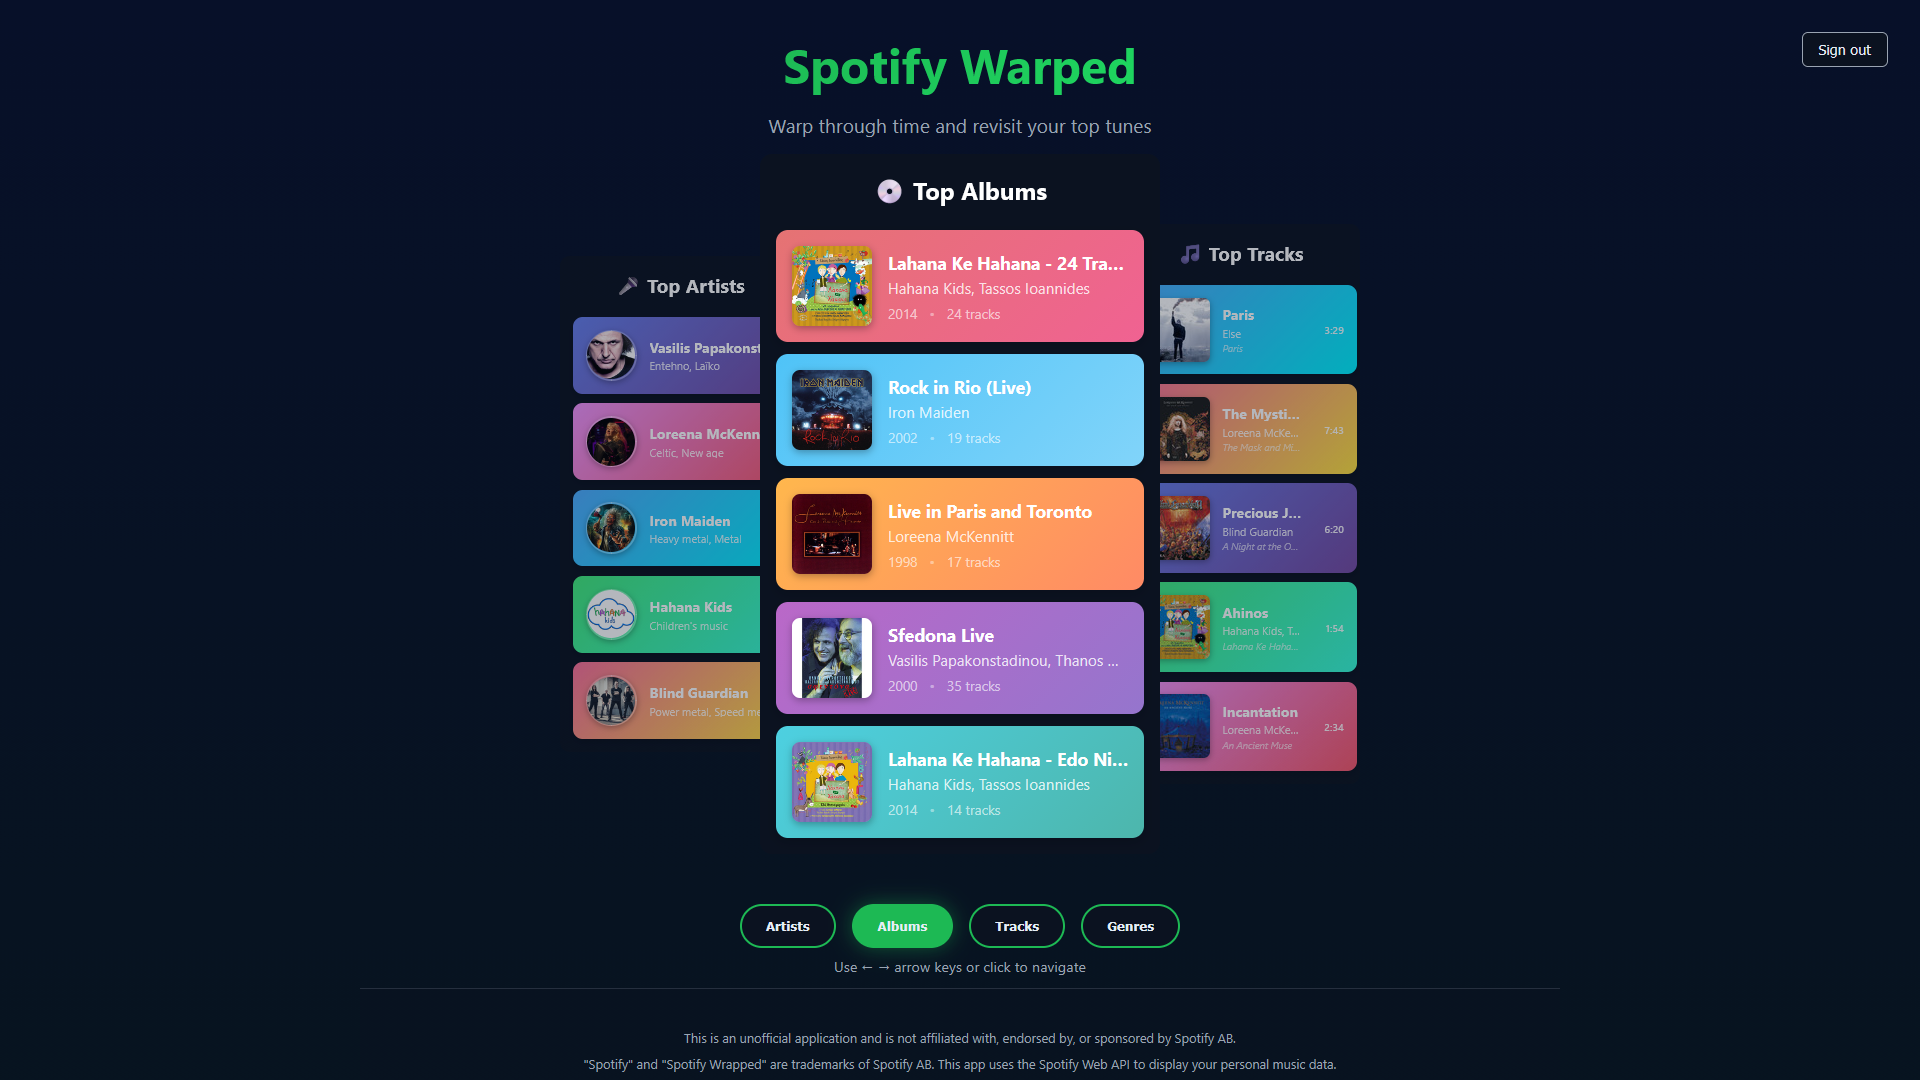
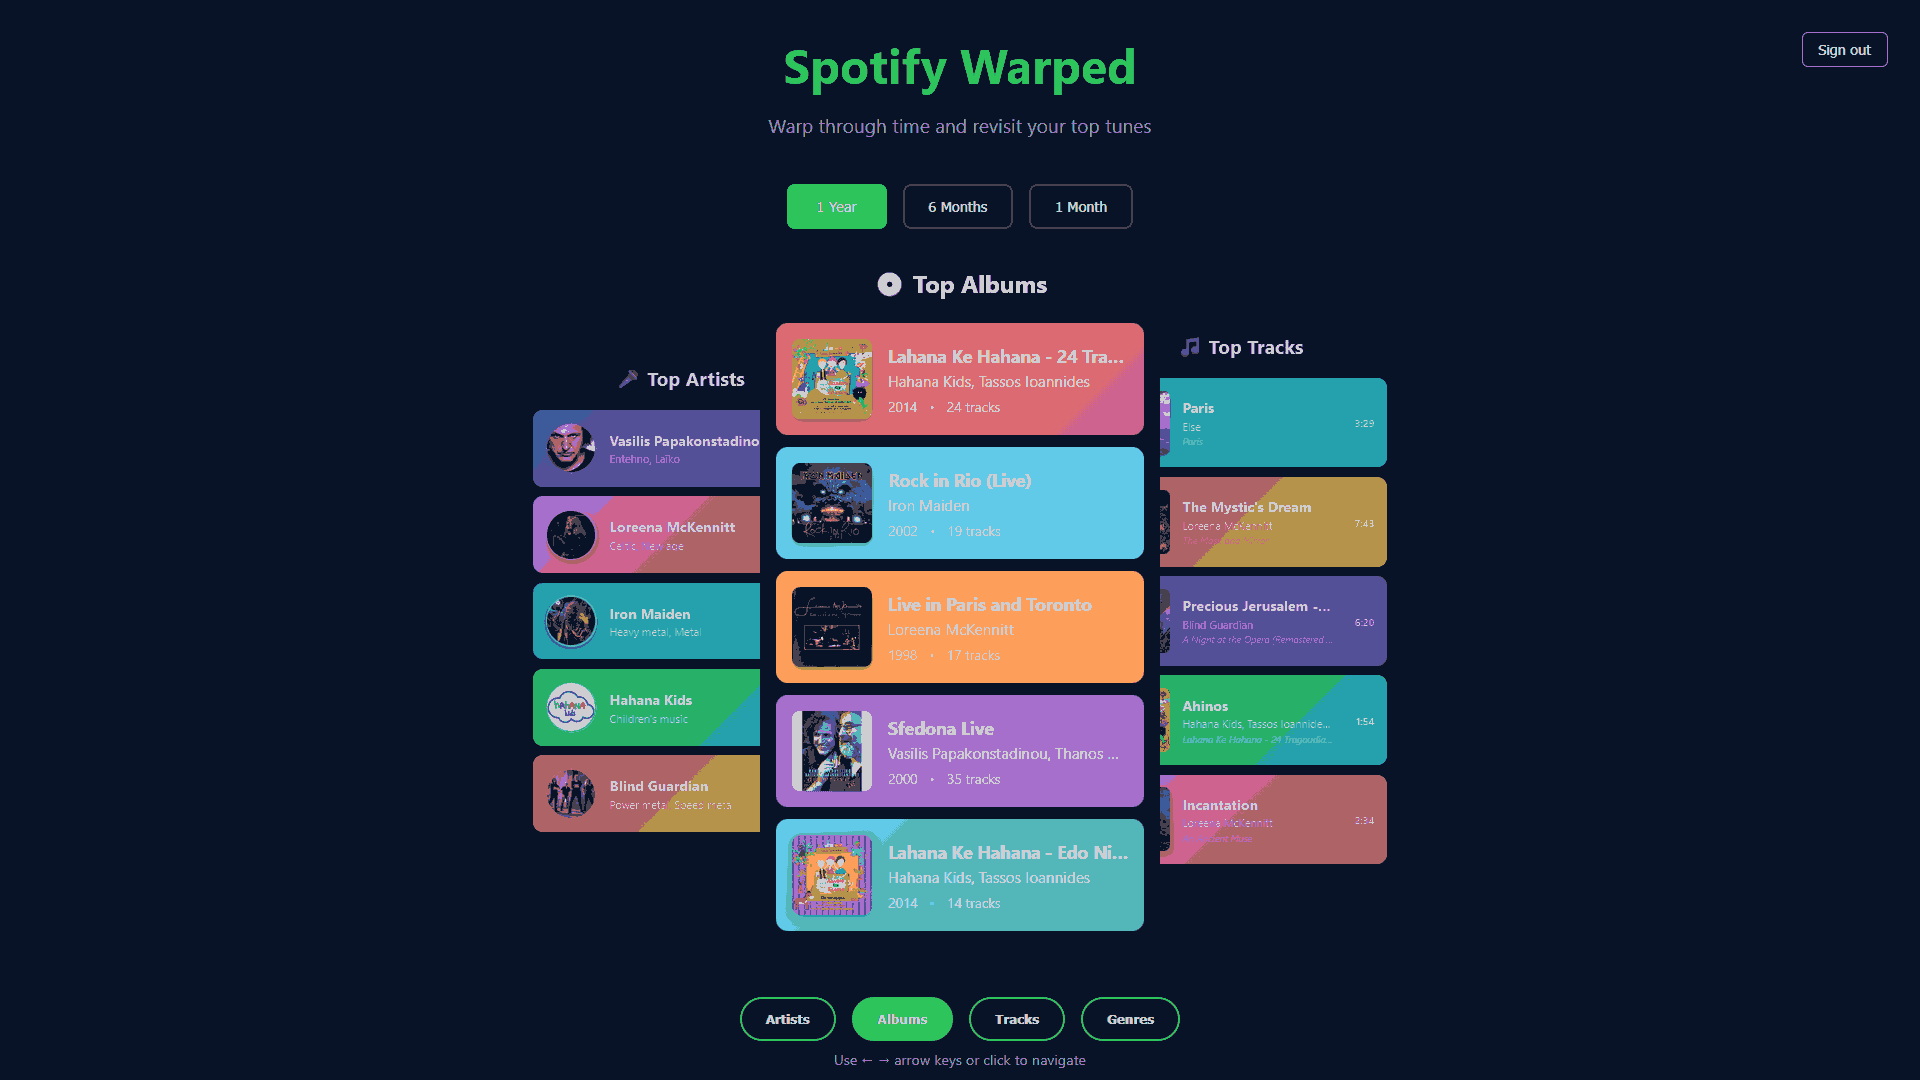
Update README

Changed region(s): [[0.25, 0.1528, 0.75, 1.0], [0.4062, 0.0917, 0.5938, 0.1222], [0.9375, 0.0306, 0.9688, 0.0611]]

diff --git a/src/App.tsx b/src/App.tsx
@@ -52,7 +52,9 @@ export default function App() {
             <span className="separator">•</span>
             <a href="https://developer.spotify.com/documentation/web-api" target="_blank" rel="noopener noreferrer">Spotify Web API</a>
             <span className="separator">•</span>
-            <a href="https://github.com/felagund1789/spotify-warped" target="_blank" rel="noopener noreferrer">Spotify Warped on GitHub</a>
+              <a href="https://github.com/felagund1789/spotify-warped" target="_blank" rel="noopener noreferrer">
+                Spotify Warped on <img src="/github-icon.svg" alt="GitHub" className="github-icon" />
+              </a>
             </p>
         </div>
       </footer>

diff --git a/src/styles.css b/src/styles.css
@@ -237,4 +237,8 @@ button {
     flex: 1;
     max-width: 120px;
   }
+
+  .separator {
+    margin: 0 0.5rem;
+  }
 }

diff --git a/README.md b/README.md
@@ -2,6 +2,7 @@
 
 [![React](https://img.shields.io/badge/React-20232A?style=for-the-badge&logo=react&logoColor=61DAFB)](https://reactjs.org/)
 [![TypeScript](https://img.shields.io/badge/TypeScript-007ACC?style=for-the-badge&logo=typescript&logoColor=white)](https://www.typescriptlang.org/)
+[![React Query](https://img.shields.io/badge/React%20Query-FF4154?style=for-the-badge&logo=react-query&logoColor=white)](https://tanstack.com/query/latest)
 [![HTML5](https://img.shields.io/badge/HTML5-E34F26?style=for-the-badge&logo=html5&logoColor=white)](https://developer.mozilla.org/en-US/docs/Web/HTML)
 [![CSS3](https://img.shields.io/badge/CSS3-1572B6?style=for-the-badge&logo=css3&logoColor=white)](https://developer.mozilla.org/en-US/docs/Web/CSS)
 
@@ -19,14 +20,22 @@ A beautiful, interactive React + TypeScript application that creates your person
 
 ### 🎠 **Interactive Carousel Navigation**
 - **3D Carousel Effect**: Navigate through different data views with smooth transitions
-- **Keyboard Support**: Use arrow keys (← →) for seamless navigation
-- **Click Navigation**: Click on side items or navigation buttons to switch views
-- **Visual Feedback**: Active states and hover effects for enhanced user experience
+- **Multi-Input Support**: Keyboard, mouse, and touch navigation for all devices
+  - **Keyboard Support**: Use arrow keys (← →) for seamless navigation
+  - **Click Navigation**: Click on side items or navigation buttons to switch views
+  - **Swipe Gestures**: Native mobile swipe support for touch devices
+- **Visual Feedback**: Active states, hover effects, and drag cursors for enhanced user experience
 
 ### 🌊 **Immersive Loading Experience**
 - **Warp Tunnel Effect**: Dynamic expanding circles create a "warping through time" animation
 - **Progressive Loading**: Animated text and dots provide engaging feedback
 - **Smart Caching**: Data persistence with 24-hour localStorage caching for faster subsequent loads
+
+### 📊 **Advanced Data Management**
+- **React Query Integration**: Powerful data fetching with automatic caching and background updates
+- **Time Range Selection**: View your top music from different periods (1 year, 6 months, 1 month)
+- **Optimistic Updates**: Smooth UI transitions with intelligent cache management
+- **Background Sync**: Automatic data refresh and stale-while-revalidate patterns
 
 ### 🎯 **User Experience Excellence**
 - **Responsive Design**: Optimized for desktop and mobile devices
@@ -40,8 +49,10 @@ A beautiful, interactive React + TypeScript application that creates your person
 - **User Profile Integration**: Real user data with avatar dropdown menu
 
 ### ⚡ **Performance Optimizations**
-- **Component Architecture**: Modular, reusable components (Carousel, WarpLoading, etc.)
-- **Efficient Caching**: Smart data persistence reduces API calls and loading times
+- **Component Architecture**: Modular, reusable components with custom hooks (Carousel, WarpLoading, useSwipe)
+- **React Query Caching**: Intelligent data fetching with stale-while-revalidate and background updates
+- **Efficient State Management**: Query-based state with automatic cache invalidation
+- **Touch Optimization**: Hardware-accelerated swipe gestures for smooth mobile experience
 - **CSS Modules**: Organized styling with component-specific CSS files
 - **Fast Development**: Built with Vite for lightning-fast development and builds
 
@@ -98,8 +109,9 @@ A beautiful, interactive React + TypeScript application that creates your person
 
 ### Navigation
 - **Keyboard**: Use `←` and `→` arrow keys to navigate between views
-- **Mouse**: Click on navigation buttons or side carousel items
-- **Touch**: Tap navigation buttons on mobile devices
+- **Mouse**: Click on navigation buttons or side carousel items, or drag to swipe
+- **Touch**: Native swipe gestures (left/right) for intuitive mobile navigation
+- **Multi-Platform**: Consistent experience across desktop, tablet, and mobile devices
 
 ### Data Views
 1. **Genres**: Colorful cards showing your top music genres
@@ -118,29 +130,38 @@ A beautiful, interactive React + TypeScript application that creates your person
 ```
 src/
 ├── api/
-│   └── spotify.ts            # Spotify API integration
+│   ├── spotify.ts            # React Query hooks for Spotify API
+│   └── mockSpotify.ts        # Mock implementation for development
 ├── components/
-│   ├── Carousel.tsx          # Main carousel navigation
+│   ├── Carousel.tsx          # Main carousel with swipe navigation
 │   ├── WarpLoading.tsx       # Loading animation
+│   ├── ErrorMessage.tsx      # Custom error handling component
 │   ├── GenreList.tsx         # Genre display component
 │   ├── ArtistList.tsx        # Artist display component
 │   ├── AlbumList.tsx         # Album display component
 │   ├── TrackList.tsx         # Track display component
-│   └── TopLists.tsx          # Main data container
+│   └── TopLists.tsx          # Main data container with time ranges
+├── hooks/
+│   ├── index.ts              # Hook exports
+│   └── useSwipe.ts           # Custom swipe gesture hook
 └── styles/                   # Component-specific CSS files
 ```
 
 ### Key Technologies
 - **React 18**: Latest React with hooks and functional components
 - **TypeScript**: Full type safety and enhanced developer experience
+- **@tanstack/react-query**: Powerful data fetching and caching library
+- **Custom Hooks**: Reusable logic with `useSwipe` for gesture handling
 - **Vite**: Fast development server and optimized builds
-- **CSS3**: Modern styling with grid, flexbox, and animations
+- **CSS3**: Modern styling with grid, flexbox, and touch-optimized animations
 - **Spotify Web API**: Official Spotify integration with OAuth2 PKCE
 
 ### Performance Features
-- **Smart Caching**: 24-hour localStorage cache for reduced API calls
-- **Component Extraction**: Reusable, modular architecture
-- **Efficient Rendering**: Optimized re-renders and state management
+- **React Query Caching**: Intelligent query caching with stale-while-revalidate patterns
+- **Background Updates**: Automatic data refresh and cache synchronization
+- **Custom Hook Architecture**: Reusable logic with `useSwipe` for gesture handling
+- **Optimized Touch Events**: Hardware-accelerated swipe gestures for 60fps mobile experience
+- **Efficient Rendering**: Query-based state management minimizes unnecessary re-renders
 - **Progressive Loading**: Smooth loading states with engaging animations
 
 ## 🔒 Security & Privacy
